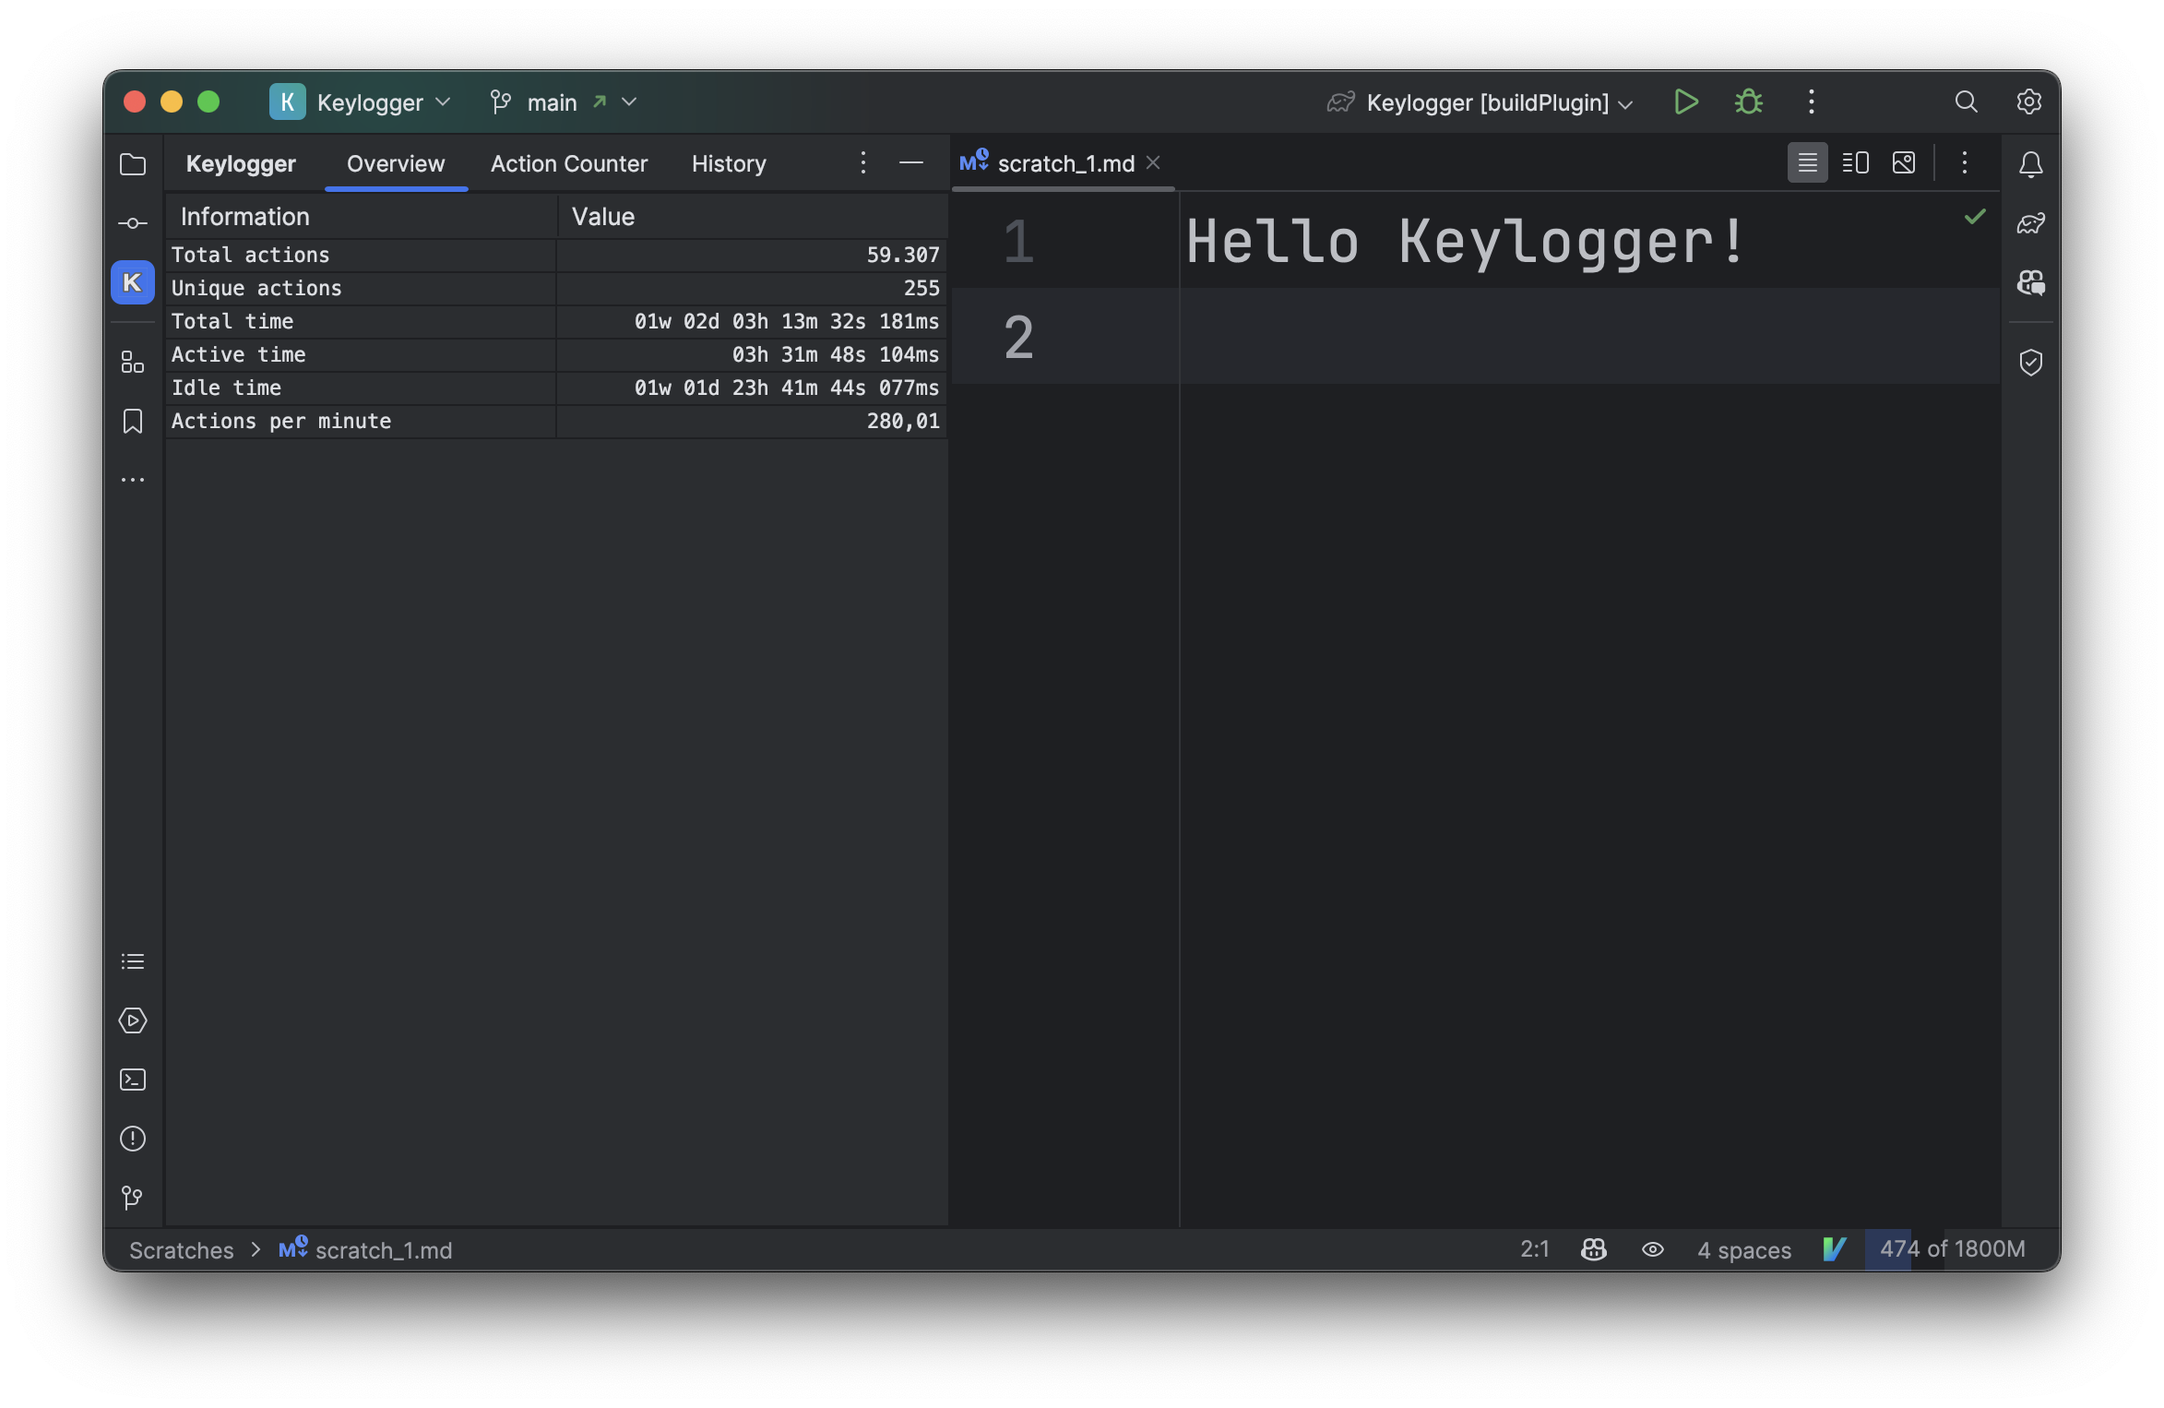
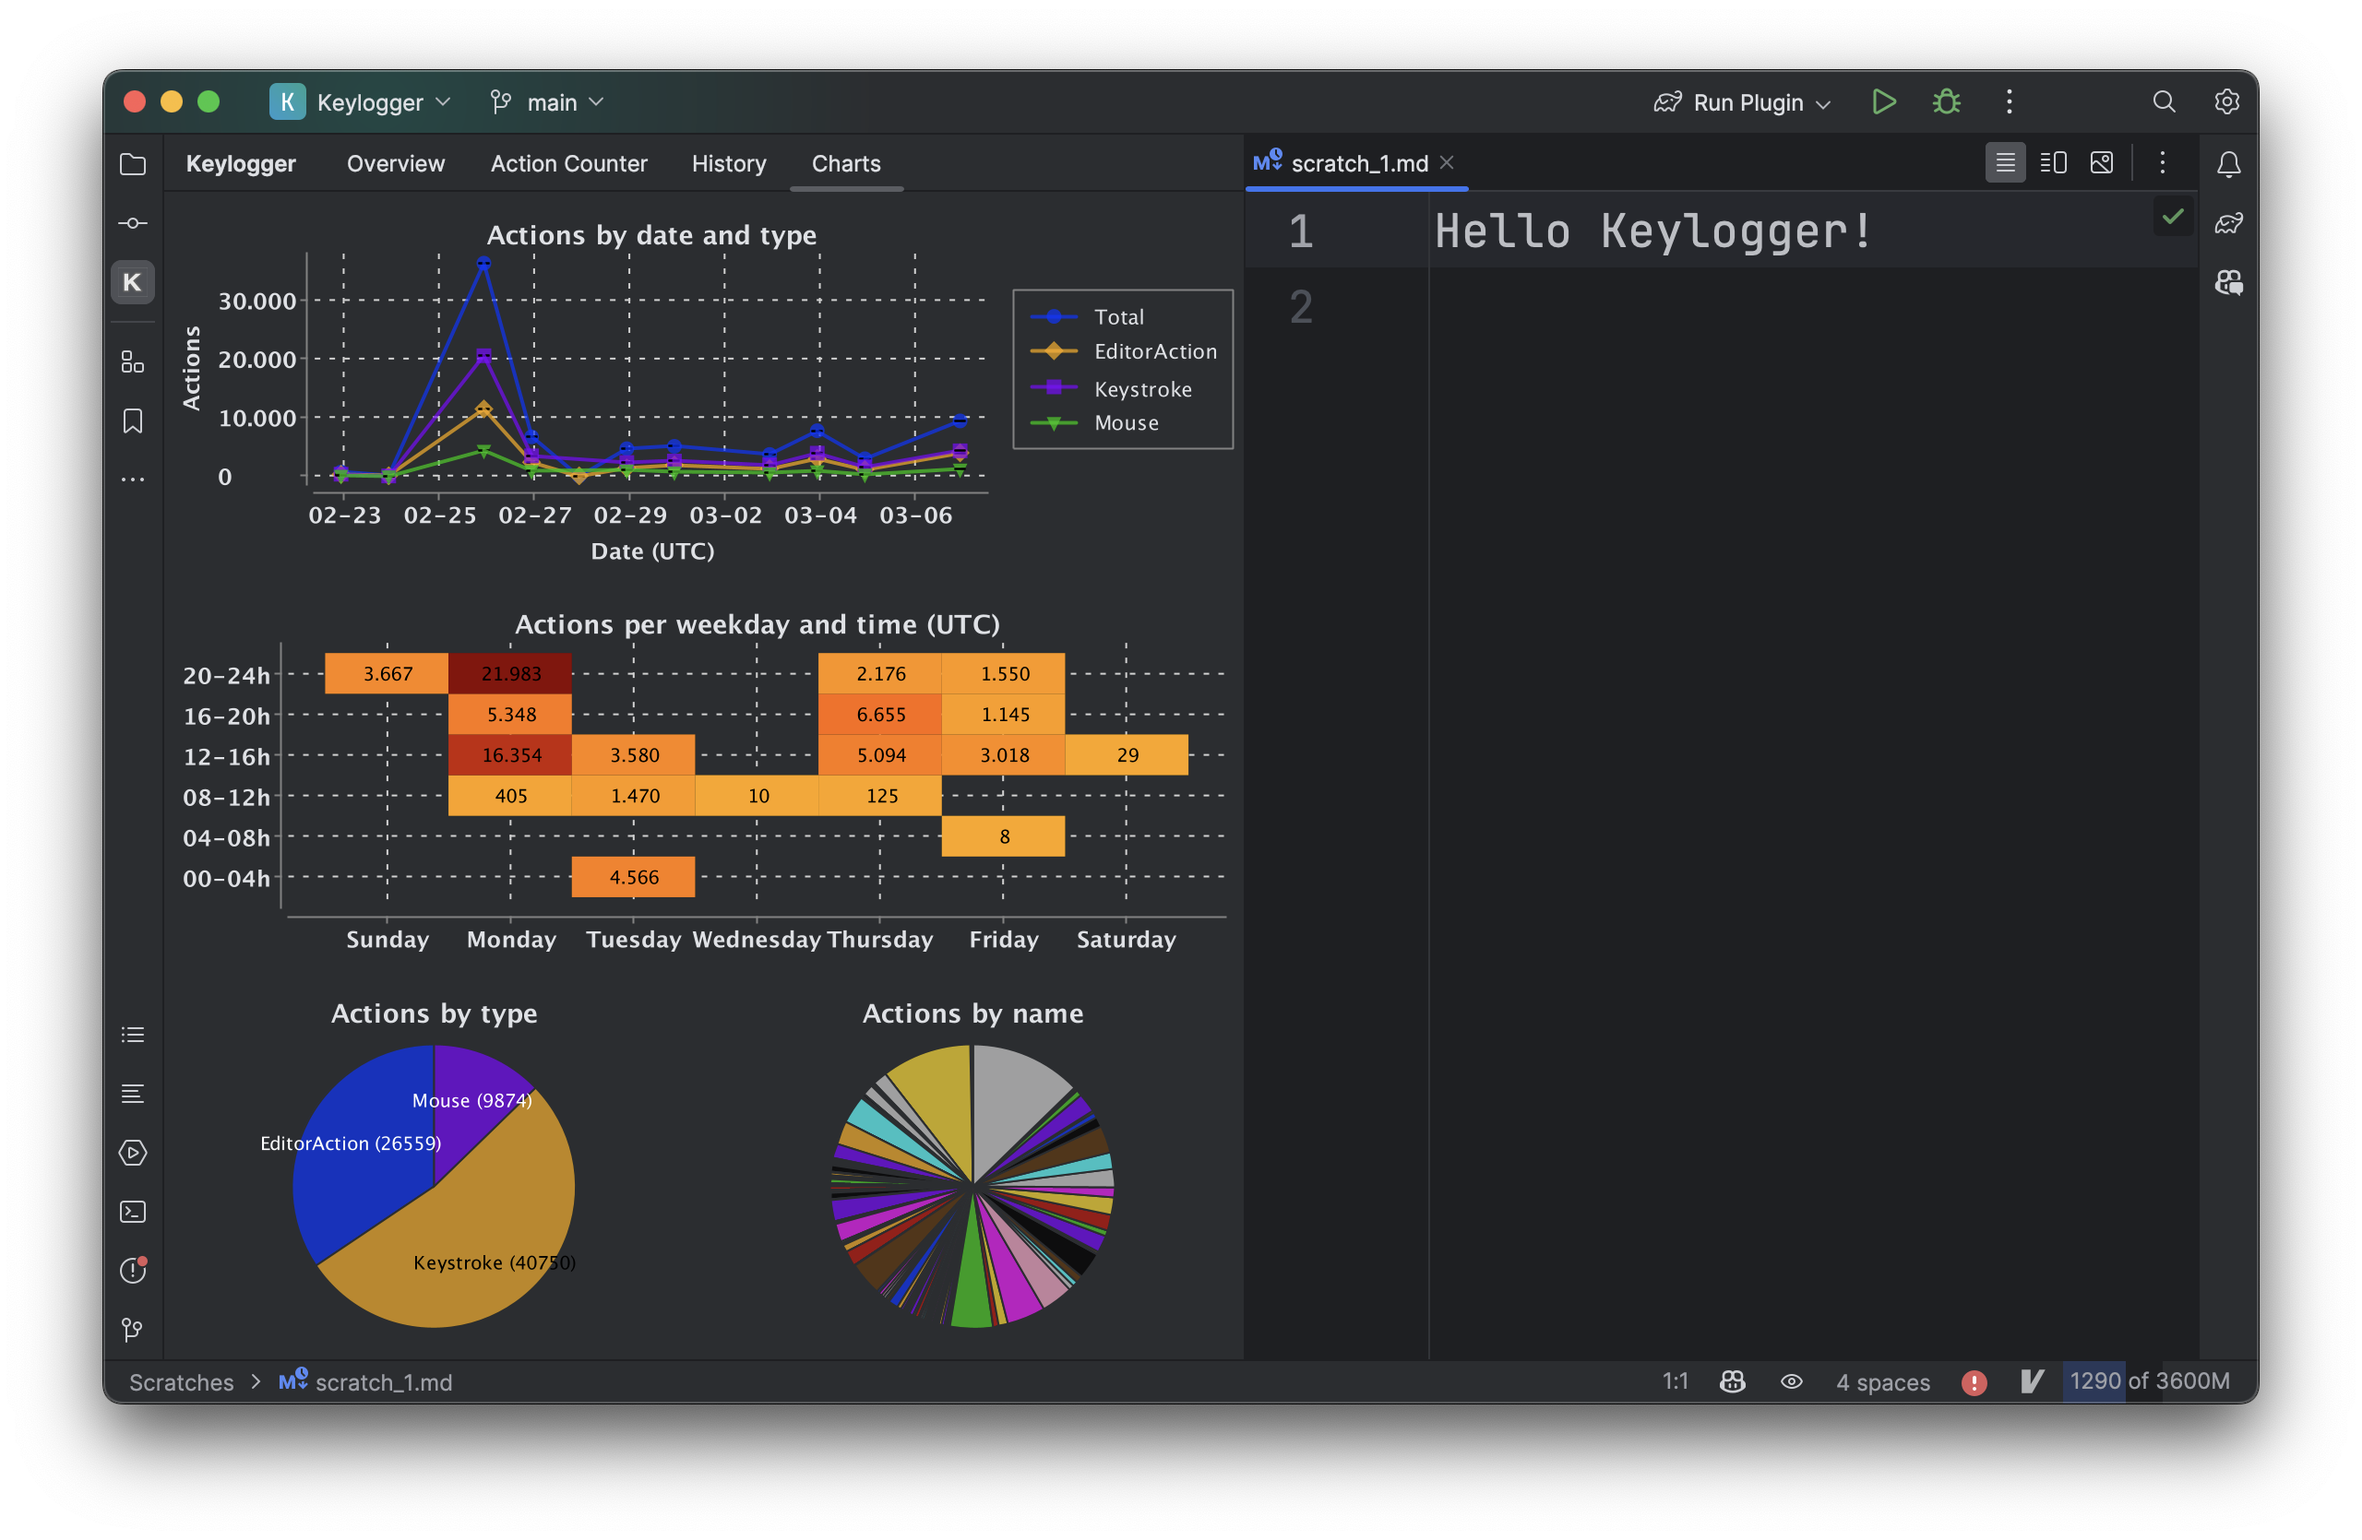
0.5.0

Changed region(s): [[0.0311, 0.0308, 0.9646, 0.924], [0.3423, 0.6468, 0.4979, 0.8624]]

diff --git a/src/main/kotlin/com/github/jpvos/keylogger/plugin/services/SettingsService.kt b/src/main/kotlin/com/github/jpvos/keylogger/plugin/services/SettingsService.kt
@@ -131,8 +131,6 @@ internal class SettingsService : PersistentStateComponent<SettingsService.State>
 
     /**
      * Get the path to the database file from the user settings.
-     * @see [SettingsService.databaseURL]
-     * @see [SettingsService.databaseURLRelative]
      */
     fun getDatabaseFilePath(): Path {
         val segments = state.databaseURL.split("/").toTypedArray()

diff --git a/src/main/kotlin/com/github/jpvos/keylogger/plugin/util/forms/FormBuilder.kt b/src/main/kotlin/com/github/jpvos/keylogger/plugin/util/forms/FormBuilder.kt
@@ -93,6 +93,7 @@ class FormBuilder<T : Enum<T>>(private val formModel: FormModel<T>) {
             return input(field, label)
         }
 
+        @Suppress("unused")
         fun numberPairField(
             firstField: T,
             secondField: T,

diff --git a/README.md b/README.md
@@ -36,60 +36,39 @@
   Download the [latest release](https://github.com/jpv-os/Keylogger/releases/latest) and install it manually using
   <kbd>Settings/Preferences</kbd> > <kbd>Plugins</kbd> > <kbd>⚙</kbd> > <kbd>Install plugin from disk...</kbd>
 
+## Getting Started
+
+- **Customize Keylogger** in the IDE Settings under `Settings > Tools > Keylogger`
+- **Look at your statistics** in the Keylogger Tool Window under `View > Tool Windows > Keylogger`
+- **Access the raw data** on your machine using `sqlite3`
+- Visit the [plugin page on GitHub](https://github.com/jpv-os/Keylogger) for more information, to report bugs and to suggest features
+- Consider leaving a review on the [JetBrains Marketplace](https://plugins.jetbrains.com/plugin/23746-keylogger) if you enjoy Keylogger
+
 ## Development Roadmap
 
-This plugin is still in its early stages. The following roadmap is a rough outline of the next steps:
+This plugin is still in early development. All versions below 1.0.0 are considered unstable. 
 
-- [x] Start with template project
-    - [x] Create a new [IntelliJ Platform Plugin Template][template] project.
-    - [x] Get familiar with the [template documentation][template].
-    - [x] Adjust the [pluginGroup](./gradle.properties), [plugin ID](./src/main/resources/META-INF/plugin.xml)
-      and [sources package](./src/main/kotlin).
-    - [x] Adjust the plugin description in `README` (see [Tips][docs:plugin-description])
-    - [x] Review
-      the [Legal Agreements](https://plugins.jetbrains.com/docs/marketplace/legal-agreements.html?from=IJPluginTemplate).
-    - [x] [Publish a plugin manually](https://plugins.jetbrains.com/docs/intellij/publishing-plugin.html?from=IJPluginTemplate)
-      for the first time.
-    - [x] Set the `PLUGIN_ID` in the above README badges.
-    - [x] Set
-      the [Plugin Signing](https://plugins.jetbrains.com/docs/intellij/plugin-signing.html?from=IJPluginTemplate)
-      related [secrets](https://github.com/JetBrains/intellij-platform-plugin-template#environment-variables).
-    - [x] Set
-      the [Deployment Token](https://plugins.jetbrains.com/docs/marketplace/plugin-upload.html?from=IJPluginTemplate).
-    - [x] Click the <kbd>Watch</kbd> button on the top of the [IntelliJ Platform Plugin Template][template] to be
-      notified about releases containing new features and fixes.
-- [x] Prototype
-    - [x] Action/click/type listeners
-    - [x] Create a simple tool window
-    - [x] First (hidden) release
-- [x] Minimum viable plugin
-    - [x] Persist data
-    - [x] Make things like idle timeout configurable via plugin settings
-- [ ] General improvements 
-    - [x] History of actions
-    - [x] Restore default settings button, delete database button in settings page
-    - [x] Improve UI by implementing custom cell renderers etc. for tables
-    - [x] Database schema validation on startup
-    - [ ] Improve error handling, make critical features more robust (what happens if database file is deleted while running, ...)
-- [ ] Code Quality
-    - [ ] Code fully documented 
-    - [ ] Logging for critical features (DB connection) to make error reporting easier for users
-    - [ ] Write meaningful tests (Unit tests, UI tests, ...?)
-- [ ] Future feature ideas
-    - [ ] Encrypted database file (configurable via settings)
-    - [ ] Welcome Dialog / First Run Wizard
-    - [ ] Notifications (e.g. "Database successfully deleted", "1 million actions reached" etc.)
-    - [ ] Configurable Action ignore list (currently, the IdeaVim compatibility mode ignoes the "Shortcuts" action - why not let the user create an ignore list?)
-    - [ ] Store actions database in plugin settings instead of file, so that it works with settings sync (allowed maximum size?)
-    - [ ] Charts and visualizations in tool window
-    - [ ] IDE status bar widget that shows the current APM (or other statistics)
-    - [ ] IDE progress bar that shows the idle timeout
-    - [ ] Persistent state component for customizable toolwindow layout
-    - [ ] How many meters scrolled
 - [ ] Version 1.0.0
-    - [ ] Demo video (must be hosted on YouTube)
+    - [ ] Improve error handling, make critical features more robust (what happens if database file is deleted while
+    running, ...)
+    - [ ] Logging for critical features (DB connection) to make error reporting easier for users
     - [ ] Comprehensive usage guide (also as YouTube video?)
+    - [ ] Code fully documented
+    - [ ] Demo video (must be hosted on YouTube)
     - [ ] Issue/Feature request templates
+- [ ] Feature ideas
+  - [ ] Write meaningful tests (Unit tests, UI tests, ...?)
+  - [ ] Welcome Dialog / First Run Wizard
+  - [ ] Notifications (e.g. "Database successfully deleted", "1 million actions reached" etc.)
+  - [ ] Configurable Action ignore list (currently, the IdeaVim compatibility mode ignoes the "Shortcuts" action - why
+    not let the user create an ignore list?)
+  - [ ] Database storage
+    - [ ] Store actions database in plugin settings instead of file, so that it works with settings sync (allowed maximum size?)
+    - [ ] Encrypted database file (configurable via settings)
+  - [ ] IDE status bar widget that shows the current APM (or other statistics)
+  - [ ] IDE progress bar that shows the idle timeout
+  - [ ] Persistent state component for customizable toolwindow layout
+  - [ ] Scroll Listeners, and "How many meters scrolled" statistic
 
 ---
 Plugin based on the [IntelliJ Platform Plugin Template][template].

diff --git a/CHANGELOG.md b/CHANGELOG.md
@@ -4,6 +4,12 @@
 
 ## [Unreleased]
 
+## [0.5.0] - 2024-03-07
+
+### Added
+
+- Tool window tab with charts
+
 ## [0.4.0] - 2024-03-03
 
 ### Added
@@ -79,7 +85,8 @@
 - Make database URL and idle timeout configurable via plugin settings
 - Add a simple settings page to configure database URL and idle timeout
 
-[Unreleased]: https://github.com/jpv-os/Keylogger/compare/v0.4.0...HEAD
+[Unreleased]: https://github.com/jpv-os/Keylogger/compare/v0.5.0...HEAD
+[0.5.0]: https://github.com/jpv-os/Keylogger/compare/v0.4.0...v0.5.0
 [0.4.0]: https://github.com/jpv-os/Keylogger/compare/v0.3.1...v0.4.0
 [0.3.1]: https://github.com/jpv-os/Keylogger/compare/v0.3.0...v0.3.1
 [0.3.0]: https://github.com/jpv-os/Keylogger/compare/v0.2.1...v0.3.0
